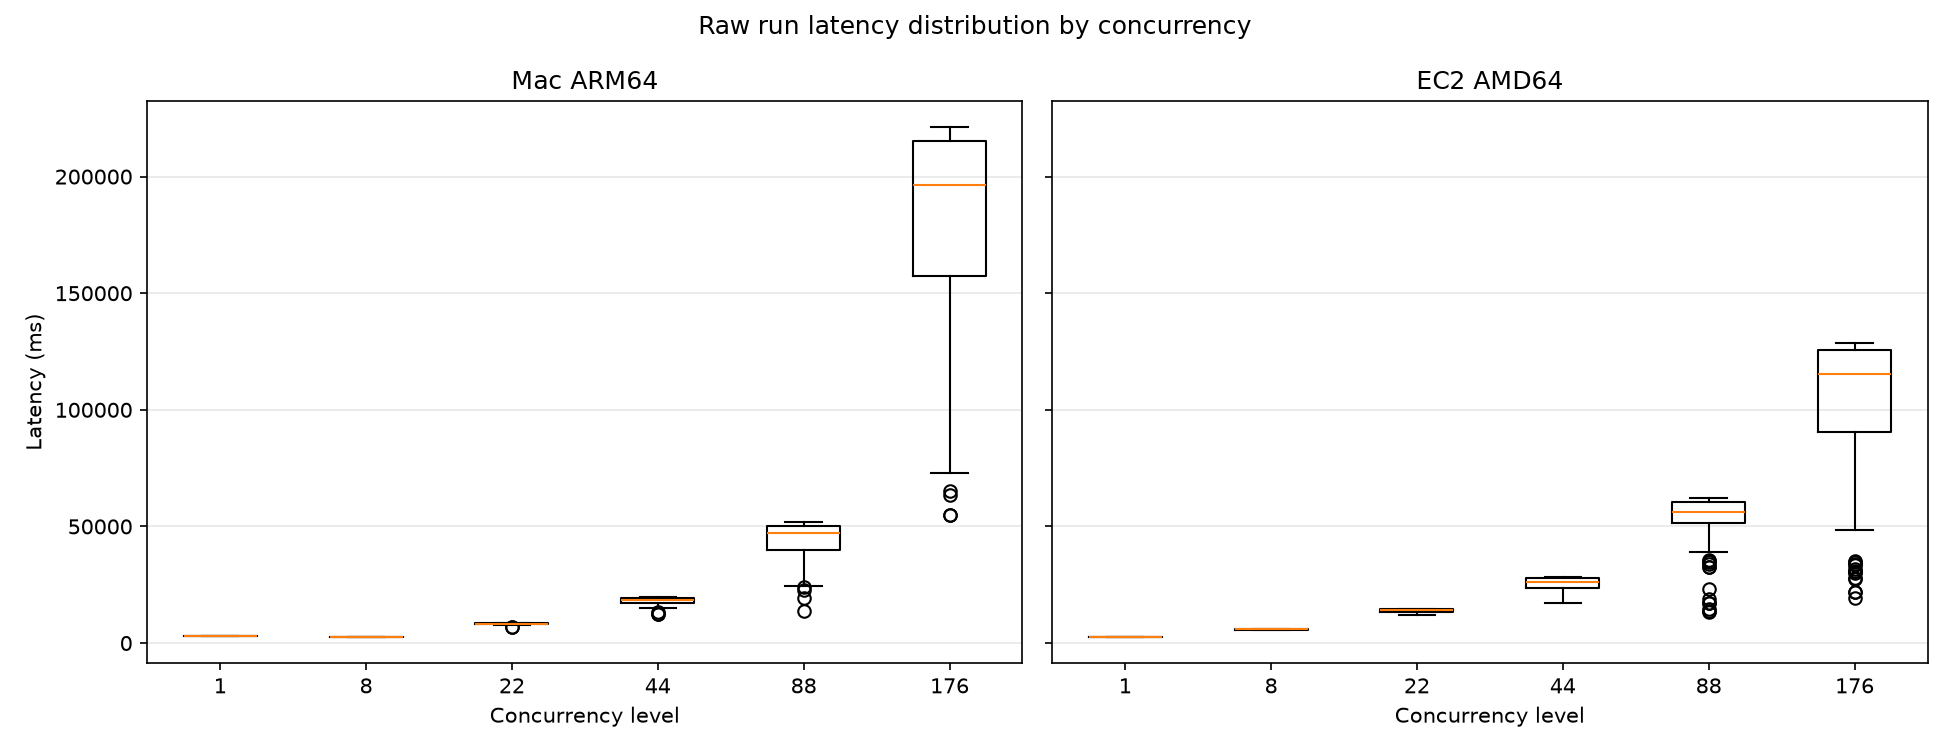
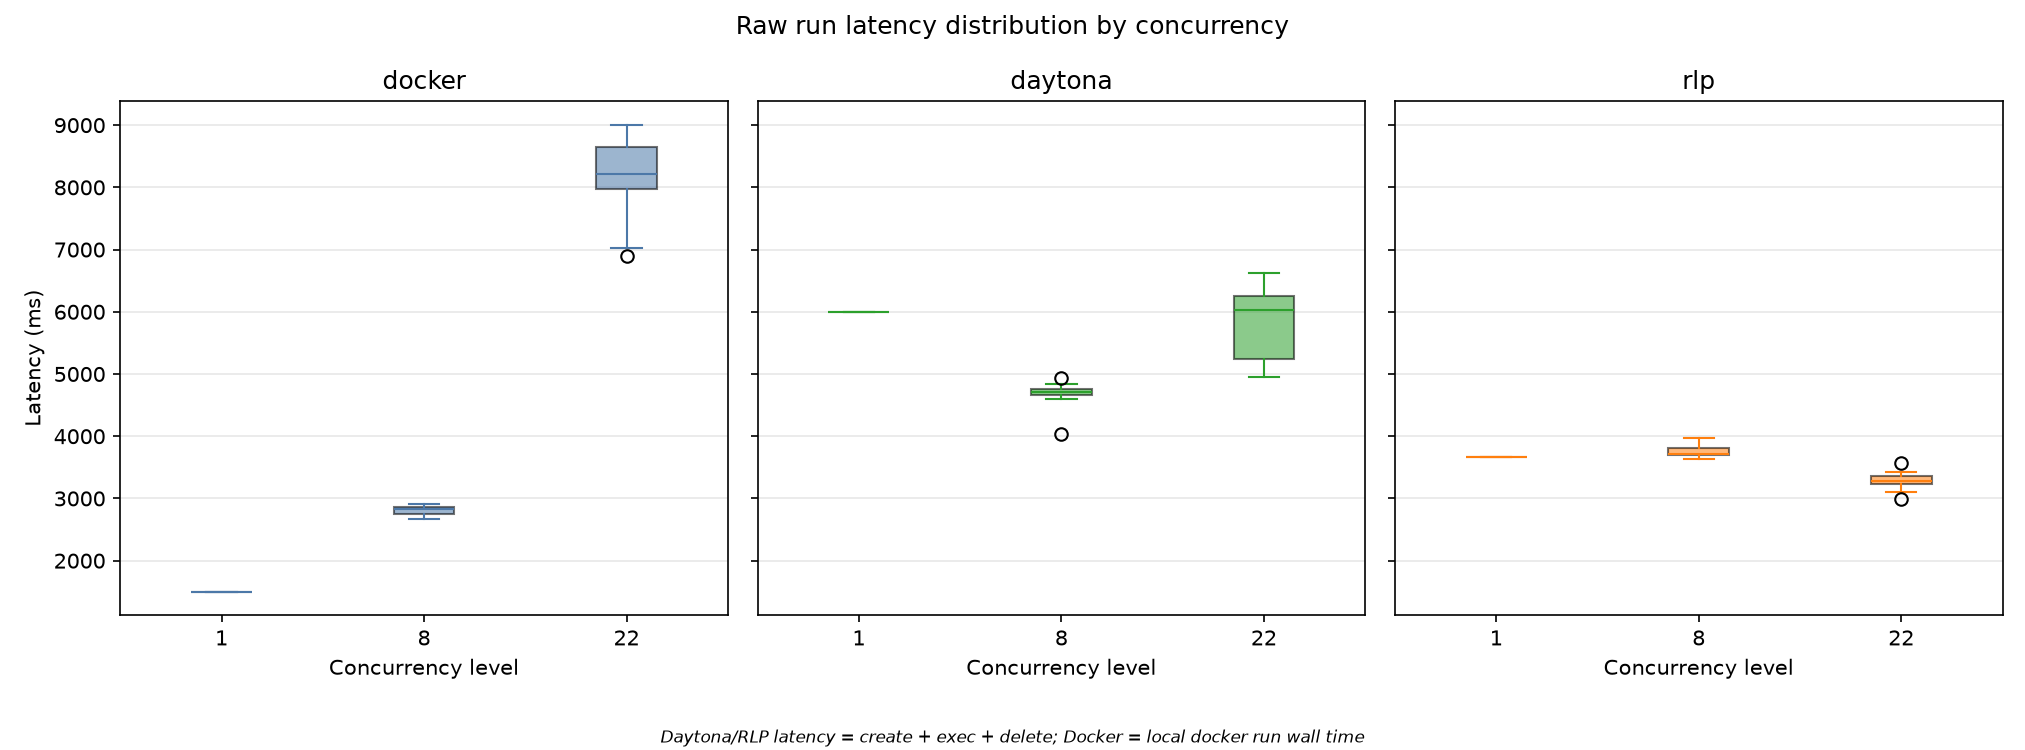
added centralized eda script

diff --git a/eda.py b/eda.py
@@ -1,4 +1,11 @@
-"""Explore concurrency JSONL results: Mac ARM64 vs EC2 AMD64."""
+"""Explore concurrency JSONL results across runners (docker / daytona / rlp).
+
+Picks the newest ``data/<runner>/concurrency_*.jsonl`` per runner, prints a
+metrics table, and writes comparison charts to ``eda_output/``.
+
+Note: Daytona/RLP latency includes sandbox create + exec + delete; Docker is
+local ``docker run`` wall time.
+"""
 
 from __future__ import annotations
 
@@ -10,12 +17,40 @@ import matplotlib.pyplot as plt
 import numpy as np
 
 ROOT = Path(__file__).resolve().parent
+DATA_DIR = ROOT / "data"
 OUT_DIR = ROOT / "eda_output"
-
-DATASETS = {
-    "Mac ARM64": ROOT / "mac_arm64_concurrency.jsonl",
-    "EC2 AMD64": ROOT / "ec2_amd64_concurrency.jsonl",
+RUNNERS = ("docker", "daytona", "rlp")
+RUNNER_COLORS = {
+    "docker": "#4C78A8",  # blue
+    "daytona": "#2CA02C",  # green
+    "rlp": "#FF7F0E",  # orange
 }
+
+LATENCY_NOTE = (
+    "Daytona/RLP latency = create + exec + delete; Docker = local docker run wall time"
+)
+
+
+def runner_color(runner: str) -> str:
+    return RUNNER_COLORS.get(runner, "#7F7F7F")
+
+
+def latest_jsonl(runner: str) -> Path | None:
+    paths = sorted((DATA_DIR / runner).glob("concurrency_*.jsonl"))
+    return paths[-1] if paths else None
+
+
+def discover_datasets() -> dict[str, Path]:
+    found: dict[str, Path] = {}
+    for runner in RUNNERS:
+        path = latest_jsonl(runner)
+        if path is not None:
+            found[runner] = path
+    if not found:
+        raise FileNotFoundError(
+            f"No concurrency_*.jsonl files under {DATA_DIR}/{{{','.join(RUNNERS)}}}"
+        )
+    return found
 
 
 def load_jsonl(path: Path) -> tuple[list[dict], list[dict]]:
@@ -35,60 +70,110 @@ def load_jsonl(path: Path) -> tuple[list[dict], list[dict]]:
     return runs, summaries
 
 
-def print_summary_table(loaded: dict[str, tuple[list[dict], list[dict]]]) -> None:
-    print(f"{'platform':<12} {'conc':>5} {'p50_ms':>10} {'p95_ms':>10} "
-          f"{'p99_ms':>10} {'max_ms':>10} {'tput/s':>8} {'fail':>5}")
-    print("-" * 78)
-    for name, (_, summaries) in loaded.items():
+def mean_latency(runs: list[dict], concurrency: int) -> float:
+    values = [
+        float(r["latency_ms"])
+        for r in runs
+        if r.get("concurrency") == concurrency and "latency_ms" in r
+    ]
+    return float(np.mean(values)) if values else 0.0
+
+
+def all_levels(loaded: dict[str, tuple[list[dict], list[dict]]]) -> list[int]:
+    return sorted(
+        {s["concurrency"] for _, summaries in loaded.values() for s in summaries}
+    )
+
+
+def print_summary_table(
+    loaded: dict[str, tuple[list[dict], list[dict]]],
+    sources: dict[str, Path],
+) -> None:
+    print(LATENCY_NOTE)
+    print()
+    for runner, path in sources.items():
+        print(f"{runner}: {path.relative_to(ROOT)}")
+    print()
+
+    header = (
+        f"{'runner':<10} {'conc':>5} {'p50_ms':>10} {'mean_ms':>10} "
+        f"{'p95_ms':>10} {'p99_ms':>10} {'max_ms':>10} {'tput/s':>8} "
+        f"{'fail':>5} {'checksum':>8}"
+    )
+    print(header)
+    print("-" * len(header))
+
+    for runner, (runs, summaries) in loaded.items():
         for s in summaries:
+            level = s["concurrency"]
+            mean_ms = mean_latency(runs, level)
             print(
-                f"{name:<12} {s['concurrency']:5d} "
-                f"{s['p50_ms']:10.1f} {s['p95_ms']:10.1f} "
-                f"{s['p99_ms']:10.1f} {s['max_ms']:10.1f} "
-                f"{s['throughput_per_sec']:8.2f} {s['failures']:5d}"
+                f"{runner:<10} {level:5d} "
+                f"{s['p50_ms']:10.1f} {mean_ms:10.1f} "
+                f"{s['p95_ms']:10.1f} {s['p99_ms']:10.1f} "
+                f"{s['max_ms']:10.1f} {s['throughput_per_sec']:8.2f} "
+                f"{s['failures']:5d} {str(s.get('checksum_ok')):>8}"
             )
         print()
 
 
-def plot_p50_bars(
-    loaded: dict[str, tuple[list[dict], list[dict]]], out: Path
+def plot_grouped_metric(
+    loaded: dict[str, tuple[list[dict], list[dict]]],
+    out: Path,
+    *,
+    metric_key: str | None,
+    title: str,
+    ylabel: str,
+    filename: str,
+    from_runs_mean: bool = False,
 ) -> None:
-    """Grouped bar chart: p50 latency by concurrency level."""
-    platforms = list(loaded.keys())
-    levels = sorted(
-        {s["concurrency"] for _, summaries in loaded.values() for s in summaries}
-    )
+    runners = list(loaded.keys())
+    levels = all_levels(loaded)
     x = np.arange(len(levels))
-    width = 0.35
+    width = min(0.8 / max(len(runners), 1), 0.25)
 
-    fig, ax = plt.subplots(figsize=(10, 5))
-    for i, name in enumerate(platforms):
-        by_level = {s["concurrency"]: s["p50_ms"] for s in loaded[name][1]}
-        values = [by_level.get(level, 0) for level in levels]
-        offset = (i - (len(platforms) - 1) / 2) * width
-        bars = ax.bar(x + offset, values, width, label=name)
+    fig, ax = plt.subplots(figsize=(11, 5))
+    for i, runner in enumerate(runners):
+        runs, summaries = loaded[runner]
+        if from_runs_mean:
+            values = [mean_latency(runs, level) for level in levels]
+        else:
+            by_level = {s["concurrency"]: s[metric_key] for s in summaries}
+            values = [by_level.get(level, 0) for level in levels]
+        offset = (i - (len(runners) - 1) / 2) * width
+        bars = ax.bar(
+            x + offset, values, width, label=runner, color=runner_color(runner)
+        )
         ax.bar_label(bars, fmt="%.0f", padding=2, fontsize=7, rotation=90)
 
     ax.set_xticks(x, [str(level) for level in levels])
     ax.set_xlabel("Concurrency level")
-    ax.set_ylabel("p50 latency (ms)")
-    ax.set_title("p50 latency by concurrency")
+    ax.set_ylabel(ylabel)
+    ax.set_title(title)
     ax.legend()
     ax.grid(axis="y", alpha=0.3)
+    fig.text(0.5, 0.01, LATENCY_NOTE, ha="center", fontsize=8, style="italic")
     fig.tight_layout()
-    fig.savefig(out / "p50_latency_bars.png", dpi=150)
+    fig.subplots_adjust(bottom=0.18)
+    fig.savefig(out / filename, dpi=150)
     plt.close(fig)
 
 
 def plot_throughput(
     loaded: dict[str, tuple[list[dict], list[dict]]], out: Path
 ) -> None:
-    """Line chart: throughput vs concurrency."""
     fig, ax = plt.subplots(figsize=(9, 5))
-    for name, (_, summaries) in loaded.items():
+    for runner, (_, summaries) in loaded.items():
         levels = [s["concurrency"] for s in summaries]
         tput = [s["throughput_per_sec"] for s in summaries]
-        ax.plot(levels, tput, marker="o", linewidth=2, label=name)
+        ax.plot(
+            levels,
+            tput,
+            marker="o",
+            linewidth=2,
+            label=runner,
+            color=runner_color(runner),
+        )
         for level, value in zip(levels, tput):
             ax.annotate(
                 f"{value:.2f}",
@@ -102,88 +187,91 @@ def plot_throughput(
     ax.set_xlabel("Concurrency level")
     ax.set_ylabel("Throughput (runs / sec)")
     ax.set_title("Throughput vs concurrency")
-    ax.set_xticks(
-        sorted({s["concurrency"] for _, summaries in loaded.values() for s in summaries})
-    )
+    ax.set_xticks(all_levels(loaded))
     ax.legend()
     ax.grid(True, alpha=0.3)
+    fig.text(0.5, 0.01, LATENCY_NOTE, ha="center", fontsize=8, style="italic")
     fig.tight_layout()
+    fig.subplots_adjust(bottom=0.18)
     fig.savefig(out / "throughput_vs_concurrency.png", dpi=150)
-    plt.close(fig)
-
-
-def plot_tail_latency(
-    loaded: dict[str, tuple[list[dict], list[dict]]], out: Path
-) -> None:
-    """Multi-line chart: p50 / p95 / p99 per platform."""
-    fig, axes = plt.subplots(1, 2, figsize=(12, 5), sharey=True)
-    metrics = [("p50_ms", "p50"), ("p95_ms", "p95"), ("p99_ms", "p99")]
-    styles = {"p50": "-", "p95": "--", "p99": ":"}
-
-    for ax, (name, (_, summaries)) in zip(axes, loaded.items()):
-        levels = [s["concurrency"] for s in summaries]
-        for key, label in metrics:
-            ax.plot(
-                levels,
-                [s[key] for s in summaries],
-                marker="o",
-                linestyle=styles[label],
-                label=label,
-            )
-        ax.set_title(name)
-        ax.set_xlabel("Concurrency level")
-        ax.set_xticks(levels)
-        ax.grid(True, alpha=0.3)
-        ax.legend()
-
-    axes[0].set_ylabel("Latency (ms)")
-    fig.suptitle("Tail latency: p50 / p95 / p99")
-    fig.tight_layout()
-    fig.savefig(out / "tail_latency.png", dpi=150)
     plt.close(fig)
 
 
 def plot_latency_boxplots(
     loaded: dict[str, tuple[list[dict], list[dict]]], out: Path
 ) -> None:
-    """Box plots of raw run latencies at each concurrency level."""
-    levels = sorted(
-        {r["concurrency"] for runs, _ in loaded.values() for r in runs}
-    )
-    platforms = list(loaded.keys())
-    fig, axes = plt.subplots(1, len(platforms), figsize=(13, 5), sharey=True)
+    levels = all_levels(loaded)
+    runners = list(loaded.keys())
+    fig, axes = plt.subplots(1, len(runners), figsize=(4.5 * len(runners), 5), sharey=True)
+    if len(runners) == 1:
+        axes = [axes]
 
-    for ax, name in zip(axes, platforms):
-        runs, _ = loaded[name]
+    for ax, runner in zip(axes, runners):
+        runs, _ = loaded[runner]
         by_level: dict[int, list[float]] = defaultdict(list)
         for run in runs:
-            by_level[run["concurrency"]].append(run["latency_ms"])
+            by_level[run["concurrency"]].append(float(run["latency_ms"]))
 
-        data = [by_level[level] for level in levels]
-        ax.boxplot(data, tick_labels=[str(level) for level in levels], showfliers=True)
-        ax.set_title(name)
+        data = [by_level.get(level, []) for level in levels]
+        color = runner_color(runner)
+        bp = ax.boxplot(
+            data,
+            tick_labels=[str(level) for level in levels],
+            showfliers=True,
+            patch_artist=True,
+        )
+        for box in bp["boxes"]:
+            box.set_facecolor(color)
+            box.set_alpha(0.55)
+        for key in ("medians", "whiskers", "caps", "fliers"):
+            for artist in bp[key]:
+                artist.set_color(color)
+        ax.set_title(runner)
         ax.set_xlabel("Concurrency level")
         ax.grid(axis="y", alpha=0.3)
 
     axes[0].set_ylabel("Latency (ms)")
     fig.suptitle("Raw run latency distribution by concurrency")
+    fig.text(0.5, 0.01, LATENCY_NOTE, ha="center", fontsize=8, style="italic")
     fig.tight_layout()
+    fig.subplots_adjust(bottom=0.18)
     fig.savefig(out / "latency_boxplots.png", dpi=150)
     plt.close(fig)
 
 
 def main() -> None:
-    for path in DATASETS.values():
-        if not path.exists():
-            raise FileNotFoundError(f"Missing dataset: {path}")
-
-    loaded = {name: load_jsonl(path) for name, path in DATASETS.items()}
+    sources = discover_datasets()
+    loaded = {runner: load_jsonl(path) for runner, path in sources.items()}
     OUT_DIR.mkdir(exist_ok=True)
-    print_summary_table(loaded)
 
-    plot_p50_bars(loaded, OUT_DIR)
+    print_summary_table(loaded, sources)
+
+    plot_grouped_metric(
+        loaded,
+        OUT_DIR,
+        metric_key="p50_ms",
+        title="p50 latency by concurrency",
+        ylabel="p50 latency (ms)",
+        filename="p50_latency_bars.png",
+    )
+    plot_grouped_metric(
+        loaded,
+        OUT_DIR,
+        metric_key="p95_ms",
+        title="p95 latency by concurrency",
+        ylabel="p95 latency (ms)",
+        filename="p95_latency_bars.png",
+    )
+    plot_grouped_metric(
+        loaded,
+        OUT_DIR,
+        metric_key=None,
+        title="Mean latency by concurrency",
+        ylabel="mean latency (ms)",
+        filename="mean_latency_bars.png",
+        from_runs_mean=True,
+    )
     plot_throughput(loaded, OUT_DIR)
-    plot_tail_latency(loaded, OUT_DIR)
     plot_latency_boxplots(loaded, OUT_DIR)
 
     print(f"Wrote charts to {OUT_DIR}/")

diff --git a/RUNBOOK.md b/RUNBOOK.md
@@ -34,6 +34,10 @@ Docker (`ghcr.io/astral-sh/uv:python3.13-bookworm-slim`) and install via
 `uv sync --frozen --no-dev`. Rebuild the matching snapshot (and local Docker
 image) before comparing if the workload or base image changed.
 
+## EDA
+# Compare latest data/{docker,daytona,rlp}/*.jsonl → eda_output/*.png
+uv run python eda.py
+
 ## Test
 uv run pytest
 
